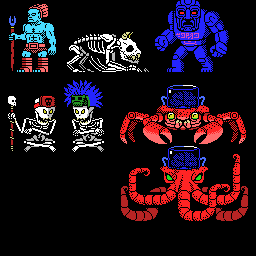
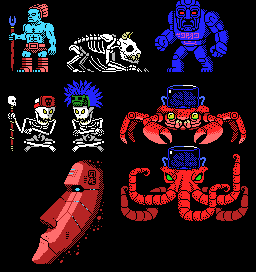
gfx for phase 3 of boss 6

diff --git a/java/src/xspelunker2/Bosses.java b/java/src/xspelunker2/Bosses.java
@@ -80,19 +80,19 @@ public class Bosses {
     
     public static void main(String args[]) throws Exception
     {
-        boss1Tiles();
-        boss1Sprites();
-
-        boss2Tiles();
-        boss2Sprites();
-
-        boss3Tiles();
-        boss3Sprites();
-
-        Boss4.main(args);
-        
-        boss5Tiles();
-        boss5Sprites();
+//        boss1Tiles();
+//        boss1Sprites();
+//
+//        boss2Tiles();
+//        boss2Sprites();
+//
+//        boss3Tiles();
+//        boss3Sprites();
+//
+//        Boss4.main(args);
+//        
+//        boss5Tiles();
+//        boss5Sprites();
 
         boss6Tiles();
         boss6Sprites();
@@ -696,6 +696,7 @@ public class Bosses {
             BufferedImage baseImage = ImageIO.read(new File(bossBaseTiles));        
 
             List<int[]> nameTableBoxes = new ArrayList<>();
+//            nameTableBoxes.add(new int[]{0, 32, 168, 256});  // base face
             nameTableBoxes.add(new int[]{0, 32, 256, 256});  // base face
             List<int[][]> nametables = addBossTilesInGapsForBoxes(nameTableBoxes, baseImage, boss5Tiles, availableTiles, collision, false, false);
 
@@ -706,16 +707,16 @@ public class Bosses {
             addNameTable(nameTable, 0, 10, 7, 15, nameTableData);  // mouth closed  7x5
             addNameTable(nameTable, 9, 10, 16, 15, nameTableData);  // mouth open  7x5
 
-            addNameTable(nameTable, 5, 4, 7, 5, nameTableData);  // eyes empty 2x1
-            addNameTable(nameTable, 19, 1, 21, 2, nameTableData);  // eyes appearing 2x1
-            addNameTable(nameTable, 19, 2, 21, 3, nameTableData);  // eyes appearing 2 2x1
-            addNameTable(nameTable, 19, 3, 21, 4, nameTableData);  // eyes on 2x1
-            addNameTable(nameTable, 19, 4, 21, 5, nameTableData);  // eyes turret appearing 1 2x1
-            addNameTable(nameTable, 19, 5, 21, 6, nameTableData);  // eyes turret appearing 2 2x1
-            addNameTable(nameTable, 19, 6, 21, 7, nameTableData);  // eyes turret appearing 3 2x1
-            addNameTable(nameTable, 19, 7, 21, 8, nameTableData);  // eyes turret 2x1
-            addNameTable(nameTable, 19, 8, 21, 9, nameTableData);  // eyes turret up 2x1
-            addNameTable(nameTable, 19, 9, 21, 10, nameTableData);  // eyes turrnt down 2x1
+            addNameTable(nameTable, 5, 4, 6, 5, nameTableData);  // eyes empty 1x1
+            addNameTable(nameTable, 19, 1, 20, 2, nameTableData);  // eyes appearing 1x1
+            addNameTable(nameTable, 19, 2, 20, 3, nameTableData);  // eyes appearing 2 1x1
+            addNameTable(nameTable, 19, 3, 20, 4, nameTableData);  // eyes on 1x1
+            addNameTable(nameTable, 19, 4, 20, 5, nameTableData);  // eyes turret appearing 1 1x1
+            addNameTable(nameTable, 19, 5, 20, 6, nameTableData);  // eyes turret appearing 2 1x1
+            addNameTable(nameTable, 19, 6, 20, 7, nameTableData);  // eyes turret appearing 3 1x1
+            addNameTable(nameTable, 19, 7, 20, 8, nameTableData);  // eyes turret 1x1
+            addNameTable(nameTable, 19, 8, 20, 9, nameTableData);  // eyes turret up 1x1
+            addNameTable(nameTable, 19, 9, 20, 10, nameTableData);  // eyes turrnt down 1x1
 
             addNameTable(nameTable, 0, 19, 4, 23, nameTableData);  // fist (4x4)
             addNameTable(nameTable, 1, 15, 3, 19, nameTableData);  // arm (2x4)
